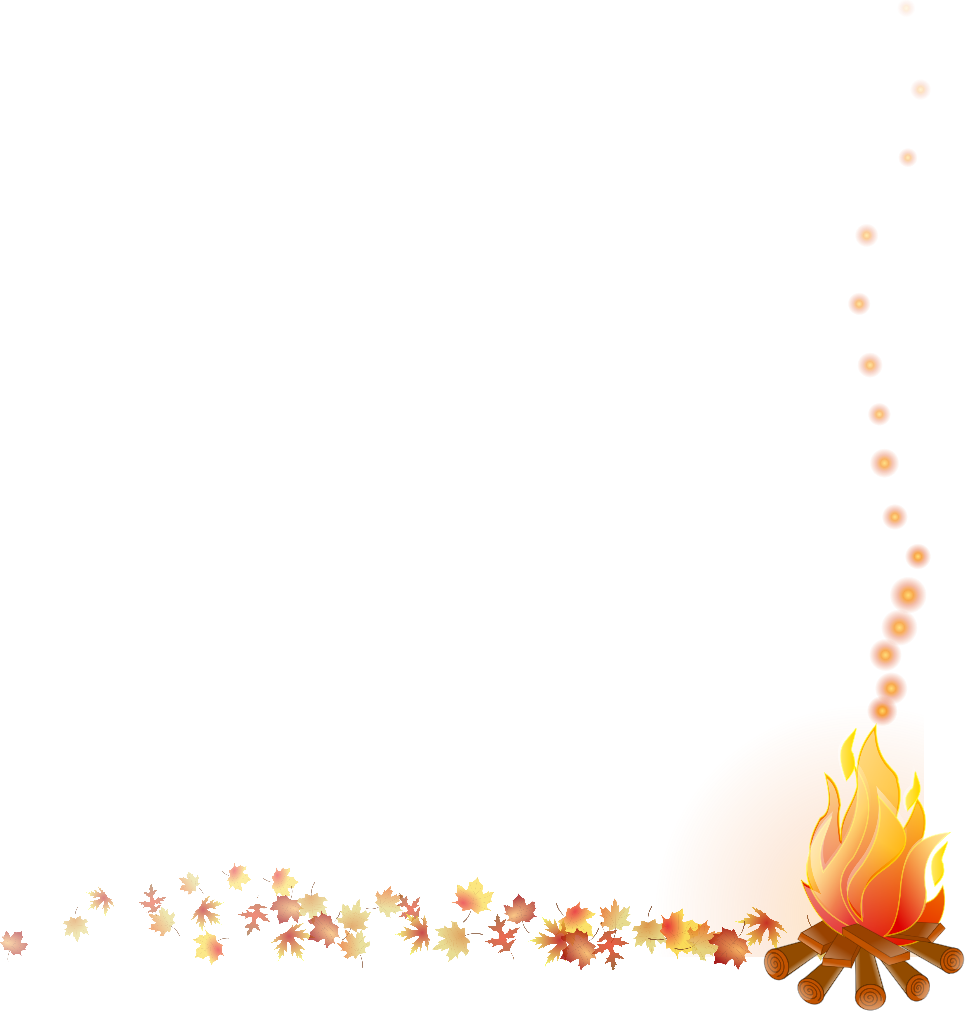
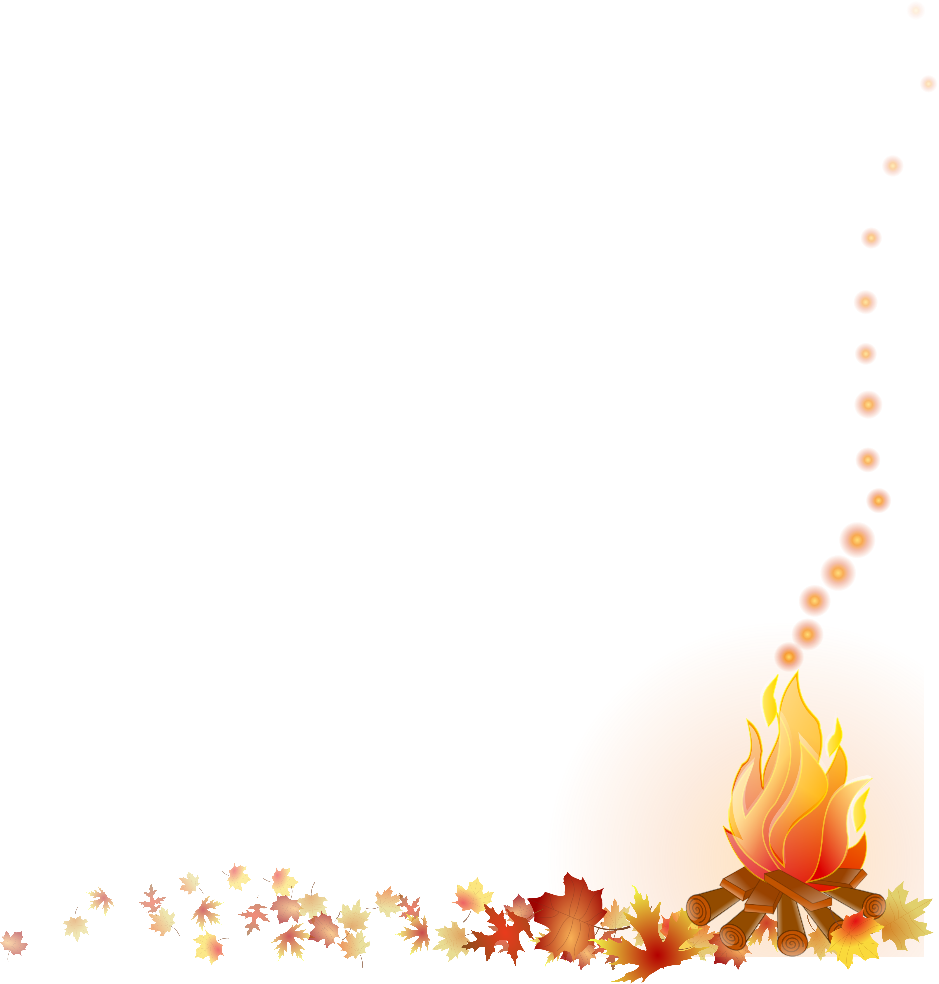
篝火橙窗口点缀微调：上边与右上角细枝的秋叶加密放大（朝窗内的叶片缩小，不压标题文字），左边细枝叶片加密；右下角篝火往窗内收，两旁加几片大叶，暖光和火星随之移动

diff --git a/dstools/qt/ornaments.py b/dstools/qt/ornaments.py
@@ -43,14 +43,14 @@ class Sprite:
 _SPRITES: dict[str, tuple[Sprite, ...]] = {
     "campfire": (
         # 从左上角贴着上边框向右、贴着左边框向下各一根挂满秋叶的细枝，末端收到外框线上，落叶渐稀渐淡
-        Sprite("campfire_spray_right.png", 0, 0, 307, -9.5, 61),
-        Sprite("campfire_spray_down.png", 0, 0, -11, 242, 500),
+        Sprite("campfire_spray_right.png", 0, 0, 310.5, -16.5, 63),
+        Sprite("campfire_spray_down.png", 0, 0, -10.5, 242, 500),
         # 左上主角：一簇大叶压在拐角上，后创建的小窗叠在细枝上面
         Sprite("campfire_cluster.png", 0, 0, 8, 1.5, 93),
         # 右上呼应：拐角一片大枫叶，沿上边往左、沿右边往下各一段挂叶细枝
-        Sprite("campfire_spray_corner.png", 1, 0, -153.5, 94.5, 253),
-        # 右下收尾：拐角铺一圈落叶，篝火跨在拐角上、底下一层暖光，火星贴着右边框往上飘；左下角留白
-        Sprite("campfire_fire.png", 1, 1, -147, -150.5, 337),
+        Sprite("campfire_spray_corner.png", 1, 0, -155.5, 91.5, 259),
+        # 右下收尾：拐角铺一圈落叶，篝火收在拐角里侧、两旁垫几片大叶、底下一层暖光，火星飘到右边框再往上飘；左下角留白
+        Sprite("campfire_fire.png", 1, 1, -151.5, -155, 328),
     ),
     "mint": (
         # 自然绿：从左上角沿上边框向右、沿左边框向下各一条枝叶带，后面是叶子朝外的绿枝，中间探出蕨叶，
